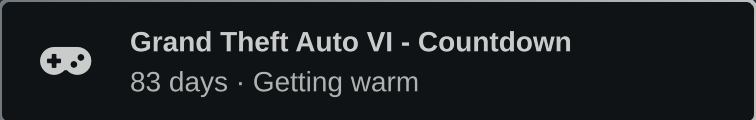
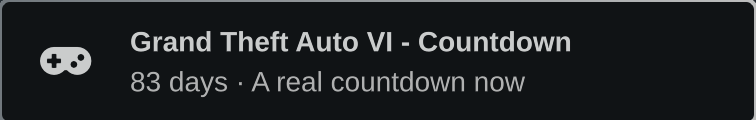
docs: reshoot the gallery for the new reminder shape

Changed region(s): [[0.3347, 0.6, 0.6997, 0.825]]

diff --git a/README.md b/README.md
@@ -9,7 +9,7 @@ no network, and nothing to read from the system.
 
 <p align="center">
   <img src="preview.png" width="400"
-       alt="The GTA VI Countdown panel open in the Omarchy bar, titled Grand Theft Auto VI - Countdown, reading 82d 09h 33m above the release date of November 19, 2026 and the pre-load date of November 12, 2026">
+       alt="The GTA VI Countdown panel open in the Omarchy bar, titled Grand Theft Auto VI - Countdown, reading 82d 09h 26m above the release date of November 19, 2026 and the pre-load date of November 12, 2026">
 </p>
 
 ## Features
@@ -17,7 +17,7 @@ no network, and nothing to read from the system.
 - One icon on the bar, the same width as every other chip. The reading lives in
   the tooltip and the panel rather than a string that grows and shrinks and
   shoves its neighbours sideways once a minute
-- One line of exact time in the panel — `82d 09h 33m`, ticking every minute.
+- One line of exact time in the panel — `82d 09h 26m`, ticking every minute.
   Switch it for the plain sleeps count with `panelFormat`
 - Pre-load as well as release, since pre-load opens a week ahead and is the date
   you actually have to act on
@@ -75,27 +75,33 @@ One notification per local day, on the first tick at or after `notifyHour`.
 Booting at 14:00 fires immediately; a machine left running overnight fires at
 `notifyHour` rather than at midnight.
 
-The toast is headed `Grand Theft Auto VI - Countdown`, the same words the panel
-uses, over a body of `83 days · Getting warm` — the count, then a line
-drawn from the current tier. The line comes from a bag rather than at random, so
-every phrase in the tier appears once before any repeats and no two mornings
-running say the same thing. On a milestone day the headline is the milestone
-instead, and the day count still opens the body.
+Every toast is headed `Grand Theft Auto VI - Countdown`, the same words the
+panel uses and the same on every day, so it is recognisable at a glance. The
+body is always two parts: where the countdown stands, then a line from the
+current tier.
+
+    Grand Theft Auto VI - Countdown
+    83 days · A real countdown now
+
+The line comes from a bag rather than at random, so every phrase in the tier
+appears once before any repeats and no two mornings running say the same thing.
 
 State lives in `$XDG_STATE_HOME/omarchy-gta6-countdown/last-notified`: the last
 day spoken on, so restarting the shell five times before lunch does not produce
 five identical toasts, and the bag, so a reboot does not reset the rotation.
 
-Milestone days carry their own headline instead of the plain one:
+On an ordinary day the body opens with the count. On a milestone it says what
+the milestone is instead:
 
-| Sleeps left | Headline |
+| Sleeps left | Body opens with |
 | --- | --- |
+| any other day | `83 days` |
 | 365 · 300 · 200 · 100 · 50 | `One year to go` … `50 days to go` |
 | 30 | `One month to go` |
 | 14 | `Two weeks to go` |
 | 7 | `Pre-load is open` |
-| 3 · 2 · 1 | `Three days to go` · `Two days to go` · `One more sleep` |
-| 0 | `Grand Theft Auto VI is out` |
+| 3 · 2 · 1 | `Three days to go` · `Two days to go` · `Tomorrow` |
+| 0 | `Out now` |
 
 Release day is announced, and then the countdown has nothing left to say and
 stops speaking.
@@ -105,30 +111,30 @@ stops speaking.
 
 <br>
 
-An ordinary morning: the panel's heading, the count, and a line from the tier.
+An ordinary morning: the count, then a line from the tier.
 
 <img src="docs/notification-daily.png" width="378"
-     alt="A notification headed Grand Theft Auto VI - Countdown, reading 83 days, Getting warm, with a controller glyph">
+     alt="A notification headed Grand Theft Auto VI - Countdown, reading 83 days, A real countdown now, with a controller glyph">
 
 A month out, where the practical nudges live.
 
 <img src="docs/notification-milestone.png" width="378"
-     alt="A notification headed One month to go, reading 30 days, Schedule your vacation">
+     alt="A notification headed Grand Theft Auto VI - Countdown, reading One month to go, Weeks not months">
 
 Pre-load day, one week ahead of launch.
 
 <img src="docs/notification-preload.png" width="378"
-     alt="A notification headed Pre-load is open, reading 7 days, Sleep is optional soon">
+     alt="A notification headed Grand Theft Auto VI - Countdown, reading Pre-load is open, One week One week">
 
 The last two days come through as critical, so they stay on screen.
 
 <img src="docs/notification-tomorrow.png" width="378"
-     alt="A notification headed One more sleep, reading Tomorrow, Clear your calendar">
+     alt="A notification headed Grand Theft Auto VI - Countdown, reading Tomorrow, Clear your calendar">
 
 And then it is done.
 
 <img src="docs/notification-release.png" width="378"
-     alt="A notification headed Grand Theft Auto VI is out, reading November 19, 2026, out now">
+     alt="A notification headed Grand Theft Auto VI - Countdown, reading Out now, Why are you still here">
 
 </details>
 
